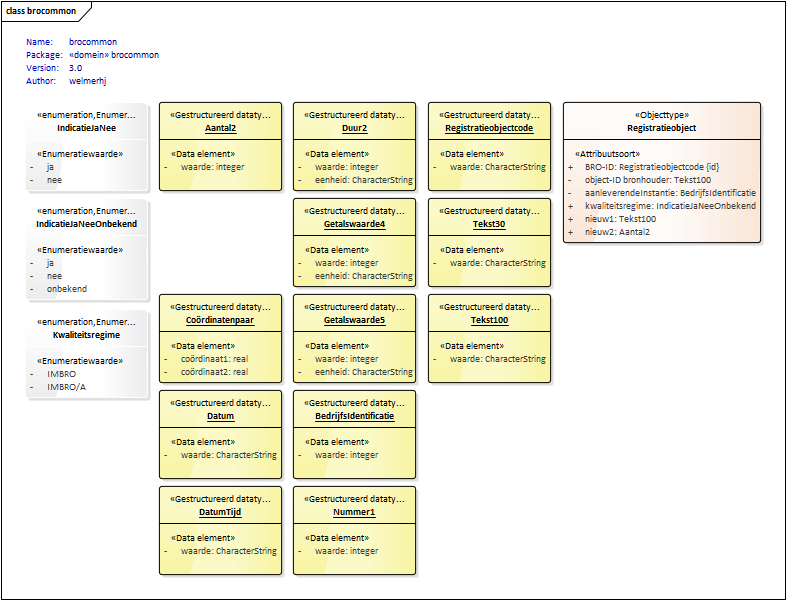
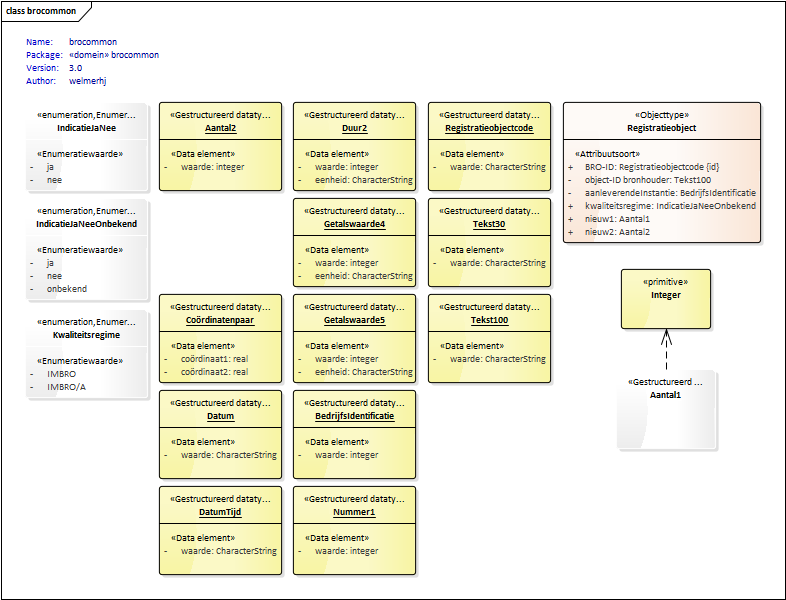
DM-MijnbouwwetvergunningEPL-1.1-1-20180126-20180129-135721

diff --git a/data/EPL-cat.html b/data/EPL-cat.html
@@ -1,10 +1,10 @@
 <h2>Catalogus</h2>
 <p class="note" title="Over deze catalogus">
    Deze catalogus is automatisch samengesteld op basis van het UML model 
-   "Mijnbouwwetvergunning (EPL)" door Imvertor OS 1.38.2 op January 29, 2018 at 10:55:00.
+   "Mijnbouwwetvergunning (EPL)" door Imvertor OS 1.38.2 op January 29, 2018 at 12:57:20.
    <br>
    Wanneer je technische fouten of onvolkomenheden aantreft, geef dit dan door aan <i>arjan@linkedmatter.com</i> en geef de code 
-   <i>"DM-MijnbouwwetvergunningEPL-1.1-1-20180126-20180129-115501"</i> door. 
+   <i>"DM-MijnbouwwetvergunningEPL-1.1-1-20180126-20180129-135721"</i> door. 
    Voor inhoudelijke fouten neem contact op met het modellenteam: <i>github@basisregistratieondergrond.nl</i>.
    
 </p>
@@ -23101,7 +23101,7 @@
                </td>
                <td></td>
                <td>
-                  <a class="link" href="#global_class_Brocommon_Tekst100">Tekst100</a>
+                  <a class="link" href="#global_class_Brocommon_Aantal1">Aantal1</a>
                   
                </td>
                <td>1</td>
@@ -23127,6 +23127,42 @@
 </section>
 <section id="">
    <h1>Primitieve datatypen </h1>
+   
+   <section id="global_class_Brocommon_Aantal1" class="notoc">
+      <h2>Primitief datatype Aantal1</h2>
+      
+      <table>
+         <colgroup width="30%"></colgroup>
+         <colgroup width="70%"></colgroup>
+         <tbody>
+            <tr>
+               <th>Naam</th>
+               <td>Aantal1</td>
+            </tr>
+            <tr>
+               <th>Alternatieve naam</th>
+               <td></td>
+            </tr>
+            <tr>
+               <th>Herkomst</th>
+               <td>Intern document</td>
+            </tr>
+            <tr>
+               <th>Definitie</th>
+               <td>Een getal</td>
+            </tr>
+            <tr>
+               <th>Herkomst definitie</th>
+               <td></td>
+            </tr>
+            <tr>
+               <th>Datum opname</th>
+               <td>15-01-2018</td>
+            </tr>
+         </tbody>
+      </table>
+      
+   </section>
    
    <section id="global_class_Brocommon_Aantal2" class="notoc">
       <h2>Primitief datatype Aantal2</h2>
@@ -24403,7 +24439,7 @@
                </tr>
                <tr>
                   <th>Formaat</th>
-                  <td>Tekst100</td>
+                  <td>Aantal1</td>
                </tr>
                <tr>
                   <th>Indicatie afleidbaar</th>
